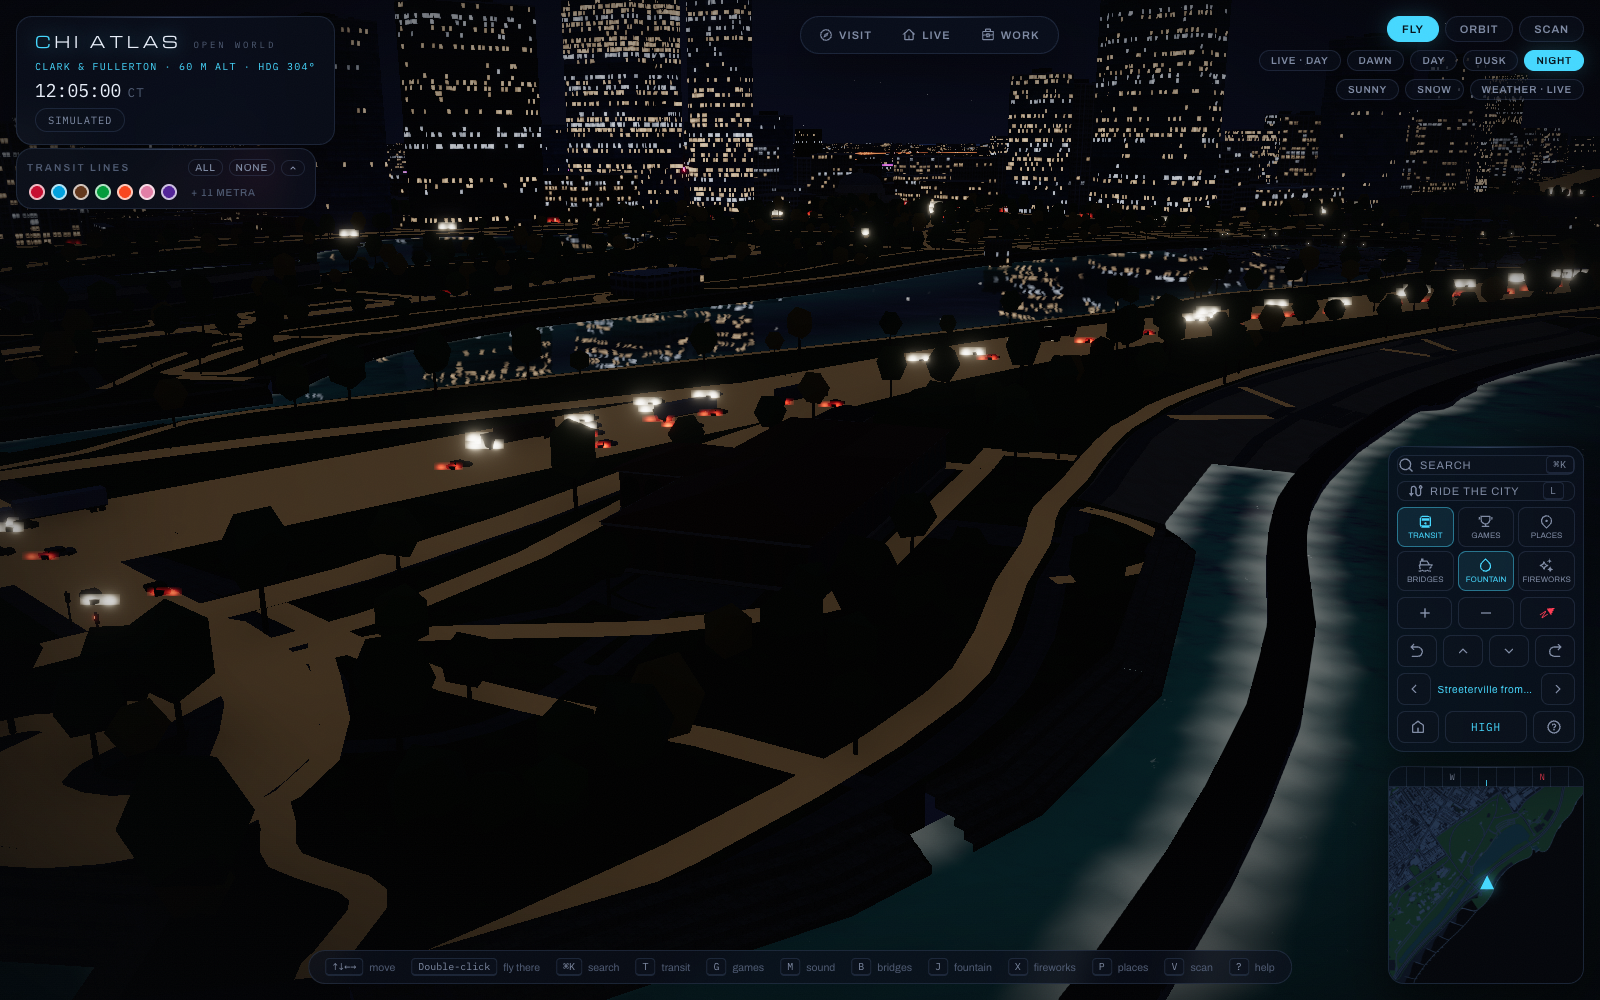
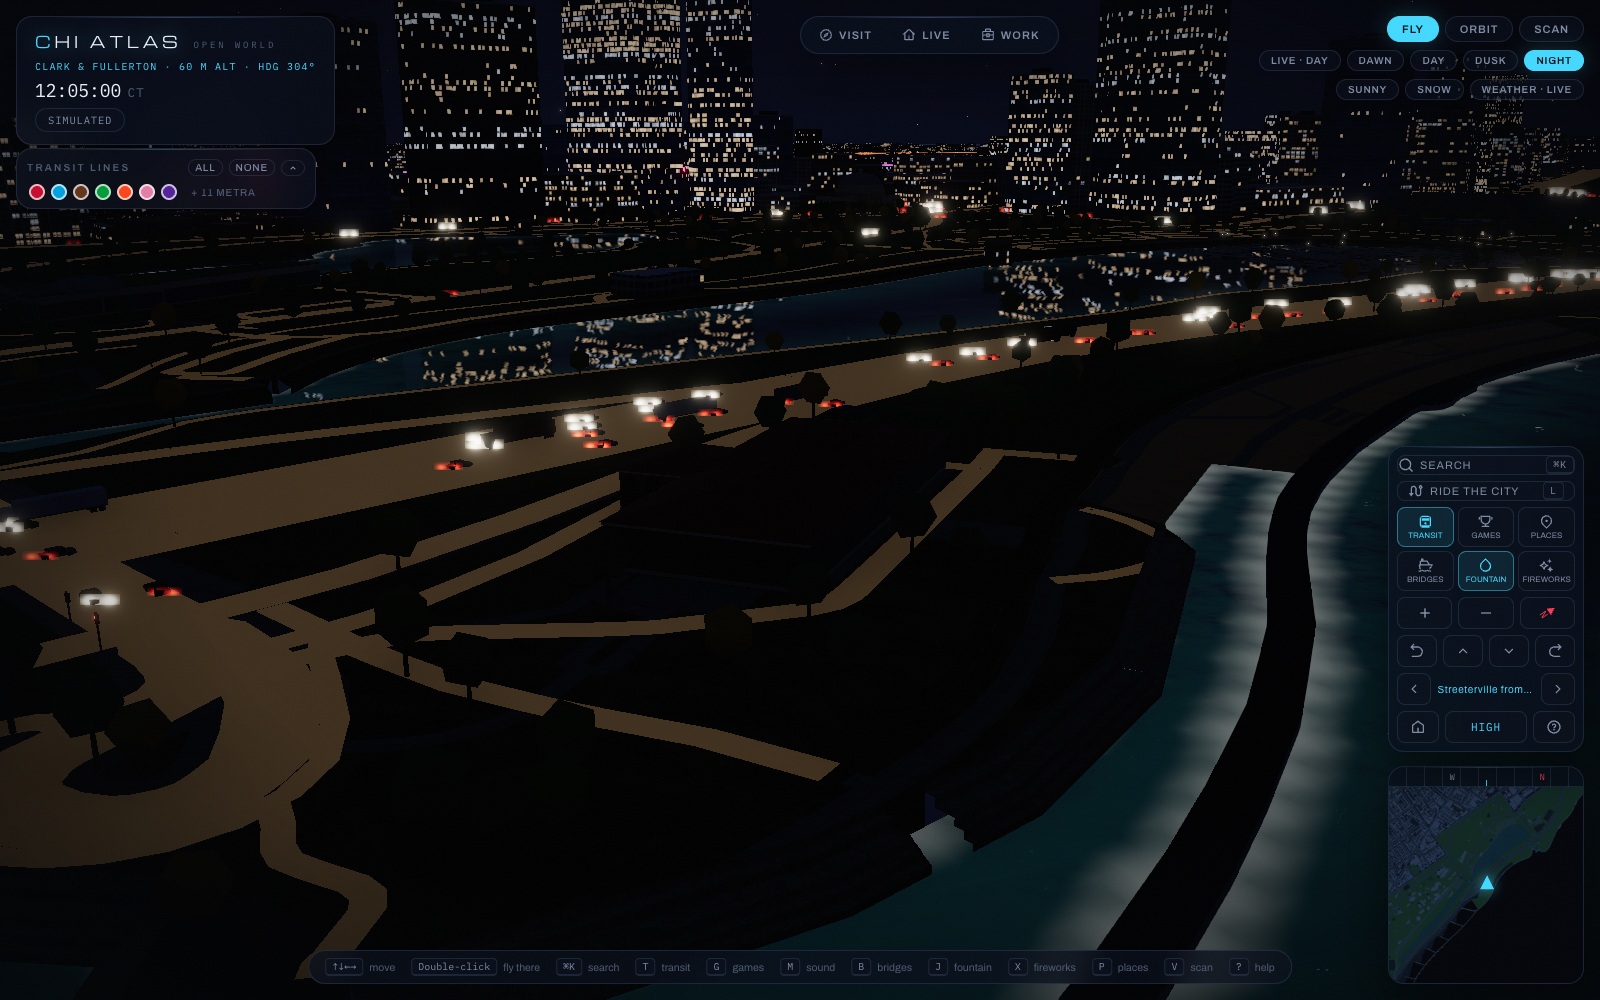
docs(readme): F-8 beach polish — North Avenue, Oak Street and the courts; the beach frames re-taken, the D5 ones to Evolution; nets' mesh lighter

diff --git a/app/src/world/BeachNets.jsx b/app/src/world/BeachNets.jsx
@@ -26,7 +26,7 @@ export default function BeachNets({ entry }) {
     if (!nets.length) return null
     const L = medianLength(nets), g = netGeometry(L)
     const solidMat = new THREE.MeshStandardMaterial({ vertexColors: true, roughness: 0.6, metalness: 0.2, side: THREE.DoubleSide })
-    const meshMat = new THREE.MeshStandardMaterial({ vertexColors: true, roughness: 1, metalness: 0, side: THREE.DoubleSide, transparent: true, opacity: 0.45, depthWrite: false })
+    const meshMat = new THREE.MeshStandardMaterial({ vertexColors: true, roughness: 1, metalness: 0, side: THREE.DoubleSide, transparent: true, opacity: 0.2, depthWrite: false })
     return { nets, L, meshes: [instanced(g.solid, solidMat, nets.length, true), instanced(g.solid, solidMat, nets.length, false), instanced(g.mesh, meshMat, nets.length, false)] }
   }, [entry])
   useEffect(() => () => {

diff --git a/README.md b/README.md
@@ -598,7 +598,7 @@ Every building, monument and landmark in Lincoln Park from North Avenue to Irvin
 <td width="50%"><img src="docs/screenshots/v10-lp-north-avenue-beach-night.png" alt="North Avenue Beach at night" width="100%"/></td>
 </tr>
 <tr>
-<td><em>The North Avenue Beach House as the ocean liner it was built to be, aground on the sand: portholes, the blue-railed decks, the Castaways canopy and two red-banded funnels. The beach runs from North Avenue to Fullerton between the lake and the Lakefront Trail, sloping down into the water.</em></td>
+<td><em>The North Avenue Beach House as the ocean liner it was built to be, aground on the sand: portholes, the blue-railed decks, the Castaways canopy and two red-banded funnels. The beach runs from North Avenue to Fullerton between the lake and the Lakefront Trail, sloping down into the water: warm tan sand, the walks across it narrow concrete, the lawns by the beach house kept green, and a net on every volleyball court.</em></td>
 <td><em>At night the portholes glow along the hull.</em></td>
 </tr>
 <tr>
@@ -820,8 +820,8 @@ Lake Michigan now lies where it really does: 4.65 m below the lakefront park and
 <td width="50%"><img src="docs/screenshots/d5-northave-beach-dusk.png" alt="D5 — North Avenue Beach at dusk" width="100%"/></td>
 </tr>
 <tr>
-<td><em>Ohio Street Beach: the sand runs into the water, and the stepped limestone revetment carries on along Lake Shore Drive.</em></td>
-<td><em>North Avenue Beach at dusk: the beach house on the sand, the beach sloping down to the lake.</em></td>
+<td><em>Ohio Street Beach: the tan sand runs into the water, and the stepped limestone revetment carries on along Lake Shore Drive.</em></td>
+<td><em>North Avenue Beach at dusk: the beach house on the sand, the volleyball nets, the beach sloping down to the lake.</em></td>
 </tr>
 <tr>
 <td width="50%"><img src="docs/screenshots/d5-belmont-harbor-dusk.png" alt="D5 — Belmont Harbor at dusk" width="100%"/></td>
@@ -854,6 +854,29 @@ Lake Michigan now lies where it really does: 4.65 m below the lakefront park and
 <tr>
 <td><em>The river mouth at dusk.</em></td>
 <td><em>Northerly Island at dusk, its shore down at the lake.</em></td>
+</tr>
+</table>
+
+### F-8 · Beach polish — *Chicago's tan sand, the walks across it, and the volleyball nets*
+
+The beaches now look like the real ones in photographs: the sand is the light tan of Chicago's lakefront beaches rather than a pale cream, and it holds that colour through day, dusk and night (and goes white under the SNOW view). The walks that cross the sand are drawn as narrow light-concrete paths instead of grey blacktop that read as streets, and the Lakefront Trail is drawn as what it is — a park trail of weathered blacktop with a dashed yellow centre line, no street-light glow, ploughed in snow — wherever it runs. North Avenue Beach's lawns, gardens and parking lot by the beach house are no longer buried under sand, and no tree stands on a beach. Every sand volleyball court has its net: two posts, the white top and bottom tapes and a see-through mesh — 112 nets, about 30 triangles each, drawn as instances only inside the view and within 650 m, casting shadows only within 140 m.
+
+<table>
+<tr>
+<td width="50%"><img src="docs/screenshots/f8-northave-beach-day.png" alt="F-8 — North Avenue Beach by day" width="100%"/></td>
+<td width="50%"><img src="docs/screenshots/f8-northave-beach-dusk.png" alt="F-8 — North Avenue Beach at dusk" width="100%"/></td>
+</tr>
+<tr>
+<td><em>North Avenue Beach by day: tan sand down to the water, the courts' nets in rows, the beach house beyond.</em></td>
+<td><em>The same beach at dusk, the sand warm in the low sun.</em></td>
+</tr>
+<tr>
+<td width="50%"><img src="docs/screenshots/f8-oak-beach-day.png" alt="F-8 — Oak Street Beach by day" width="100%"/></td>
+<td width="50%"><img src="docs/screenshots/f8-northave-courts-day.png" alt="F-8 — the volleyball courts at North Avenue Beach" width="100%"/></td>
+</tr>
+<tr>
+<td><em>Oak Street Beach from the lake: the curve of sand under the Gold Coast towers.</em></td>
+<td><em>Down at the courts: posts, tapes and see-through nets on the sand.</em></td>
 </tr>
 </table>
 
@@ -1275,24 +1298,28 @@ It wasn't made right in one attempt. Here are the same places through each pass,
 
 <table>
 <tr>
-<td width="33%"><img src="docs/screenshots/evolution/before-lp-north-avenue-beach-day.png" alt="North Avenue Beach before the Lincoln Park pass" width="100%"/></td>
-<td width="33%"><img src="docs/screenshots/evolution/v10-lp-north-avenue-beach-day-lp-pass.png" alt="North Avenue Beach after the Lincoln Park pass" width="100%"/></td>
-<td width="33%"><img src="docs/screenshots/v10-lp-north-avenue-beach-day.png" alt="North Avenue Beach with the lake at its real level" width="100%"/></td>
+<td width="25%"><img src="docs/screenshots/evolution/before-lp-north-avenue-beach-day.png" alt="North Avenue Beach before the Lincoln Park pass" width="100%"/></td>
+<td width="25%"><img src="docs/screenshots/evolution/v10-lp-north-avenue-beach-day-lp-pass.png" alt="North Avenue Beach after the Lincoln Park pass" width="100%"/></td>
+<td width="25%"><img src="docs/screenshots/evolution/v10-lp-north-avenue-beach-day-d5.png" alt="North Avenue Beach with the lake at its real level" width="100%"/></td>
+<td width="25%"><img src="docs/screenshots/v10-lp-north-avenue-beach-day.png" alt="North Avenue Beach after the beach polish" width="100%"/></td>
 </tr>
 <tr>
 <td><sub>North Avenue Beach · Oct 1, before (day)<br/>OSM boxes; the water under the grass</sub></td>
 <td><sub>North Avenue Beach · Oct 1, after (day)<br/>every building sculpted, the water shown</sub></td>
 <td><sub>North Avenue Beach · Oct 1, D5 (day)<br/>the sand slopes into the lake at its real level</sub></td>
+<td><sub>North Avenue Beach · Oct 2, F-8 (day)<br/>warm tan sand, concrete walks, volleyball nets</sub></td>
 </tr>
 <tr>
-<td width="33%"><img src="docs/screenshots/evolution/before-lp-north-avenue-beach-night.png" alt="North Avenue Beach before the Lincoln Park pass" width="100%"/></td>
-<td width="33%"><img src="docs/screenshots/evolution/v10-lp-north-avenue-beach-night-lp-pass.png" alt="North Avenue Beach after the Lincoln Park pass" width="100%"/></td>
-<td width="33%"><img src="docs/screenshots/v10-lp-north-avenue-beach-night.png" alt="North Avenue Beach with the lake at its real level" width="100%"/></td>
+<td width="25%"><img src="docs/screenshots/evolution/before-lp-north-avenue-beach-night.png" alt="North Avenue Beach before the Lincoln Park pass" width="100%"/></td>
+<td width="25%"><img src="docs/screenshots/evolution/v10-lp-north-avenue-beach-night-lp-pass.png" alt="North Avenue Beach after the Lincoln Park pass" width="100%"/></td>
+<td width="25%"><img src="docs/screenshots/evolution/v10-lp-north-avenue-beach-night-d5.png" alt="North Avenue Beach with the lake at its real level" width="100%"/></td>
+<td width="25%"><img src="docs/screenshots/v10-lp-north-avenue-beach-night.png" alt="North Avenue Beach after the beach polish" width="100%"/></td>
 </tr>
 <tr>
 <td><sub>North Avenue Beach · Oct 1, before (night)<br/>OSM boxes; the water under the grass</sub></td>
 <td><sub>North Avenue Beach · Oct 1, after (night)<br/>every building sculpted, the water shown</sub></td>
 <td><sub>North Avenue Beach · Oct 1, D5 (night)<br/>the sand slopes into the lake at its real level</sub></td>
+<td><sub>North Avenue Beach · Oct 2, F-8 (night)<br/>warm tan sand, concrete walks, volleyball nets</sub></td>
 </tr>
 <tr>
 <td width="50%"><img src="docs/screenshots/evolution/before-lp-zoo-mall-day.png" alt="The zoo before the Lincoln Park pass" width="100%"/></td>
@@ -1347,24 +1374,28 @@ It wasn't made right in one attempt. Here are the same places through each pass,
 <td><sub>The Conservatory · Oct 1, after (night)<br/>every building sculpted, the water shown</sub></td>
 </tr>
 <tr>
-<td width="33%"><img src="docs/screenshots/evolution/before-lp-theater-on-the-lake-day.png" alt="Fullerton before the Lincoln Park pass" width="100%"/></td>
-<td width="33%"><img src="docs/screenshots/evolution/v10-lp-theater-on-the-lake-day-lp-pass.png" alt="Fullerton after the Lincoln Park pass" width="100%"/></td>
-<td width="33%"><img src="docs/screenshots/v10-lp-theater-on-the-lake-day.png" alt="Fullerton with the lake at its real level" width="100%"/></td>
+<td width="25%"><img src="docs/screenshots/evolution/before-lp-theater-on-the-lake-day.png" alt="Fullerton before the Lincoln Park pass" width="100%"/></td>
+<td width="25%"><img src="docs/screenshots/evolution/v10-lp-theater-on-the-lake-day-lp-pass.png" alt="Fullerton after the Lincoln Park pass" width="100%"/></td>
+<td width="25%"><img src="docs/screenshots/evolution/v10-lp-theater-on-the-lake-day-d5.png" alt="Fullerton with the lake at its real level" width="100%"/></td>
+<td width="25%"><img src="docs/screenshots/v10-lp-theater-on-the-lake-day.png" alt="Fullerton after the beach polish" width="100%"/></td>
 </tr>
 <tr>
 <td><sub>Fullerton · Oct 1, before (day)<br/>OSM boxes; the water under the grass</sub></td>
 <td><sub>Fullerton · Oct 1, after (day)<br/>every building sculpted, the water shown</sub></td>
 <td><sub>Fullerton · Oct 1, D5 (day)<br/>the stepped limestone revetment down to the lake</sub></td>
+<td><sub>Fullerton · Oct 2, F-8 (day)<br/>Fullerton Beach in warm tan sand</sub></td>
 </tr>
 <tr>
-<td width="33%"><img src="docs/screenshots/evolution/before-lp-theater-on-the-lake-night.png" alt="Fullerton before the Lincoln Park pass" width="100%"/></td>
-<td width="33%"><img src="docs/screenshots/evolution/v10-lp-theater-on-the-lake-night-lp-pass.png" alt="Fullerton after the Lincoln Park pass" width="100%"/></td>
-<td width="33%"><img src="docs/screenshots/v10-lp-theater-on-the-lake-night.png" alt="Fullerton with the lake at its real level" width="100%"/></td>
+<td width="25%"><img src="docs/screenshots/evolution/before-lp-theater-on-the-lake-night.png" alt="Fullerton before the Lincoln Park pass" width="100%"/></td>
+<td width="25%"><img src="docs/screenshots/evolution/v10-lp-theater-on-the-lake-night-lp-pass.png" alt="Fullerton after the Lincoln Park pass" width="100%"/></td>
+<td width="25%"><img src="docs/screenshots/evolution/v10-lp-theater-on-the-lake-night-d5.png" alt="Fullerton with the lake at its real level" width="100%"/></td>
+<td width="25%"><img src="docs/screenshots/v10-lp-theater-on-the-lake-night.png" alt="Fullerton after the beach polish" width="100%"/></td>
 </tr>
 <tr>
 <td><sub>Fullerton · Oct 1, before (night)<br/>OSM boxes; the water under the grass</sub></td>
 <td><sub>Fullerton · Oct 1, after (night)<br/>every building sculpted, the water shown</sub></td>
 <td><sub>Fullerton · Oct 1, D5 (night)<br/>the stepped limestone revetment down to the lake</sub></td>
+<td><sub>Fullerton · Oct 2, F-8 (night)<br/>Fullerton Beach in warm tan sand</sub></td>
 </tr>
 <tr>
 <td width="33%"><img src="docs/screenshots/evolution/before-lp-belmont-waveland-day.png" alt="Diversey to Waveland before the Lincoln Park pass" width="100%"/></td>
@@ -1393,6 +1424,27 @@ It wasn't made right in one attempt. Here are the same places through each pass,
 <tr>
 <td><sub>The Lily Pool · Sep 30<br/>the Nature Museum a plain box</sub></td>
 <td><sub>The Lily Pool · Oct 1, the same view<br/>the Nature Museum and its Butterfly Haven, North Pond as water</sub></td>
+</tr>
+</table>
+
+**The lakefront beaches** — the D5 frames, before and after the beach polish (F-8)
+
+<table>
+<tr>
+<td width="50%"><img src="docs/screenshots/evolution/d5-ohio-beach-day-d5.png" alt="Ohio Street Beach at D5" width="100%"/></td>
+<td width="50%"><img src="docs/screenshots/d5-ohio-beach-day.png" alt="Ohio Street Beach after the beach polish" width="100%"/></td>
+</tr>
+<tr>
+<td><sub>Ohio Street Beach · Oct 1, D5 (day)<br/>pale, almost white sand</sub></td>
+<td><sub>Ohio Street Beach · Oct 2, F-8 (day)<br/>warm tan sand</sub></td>
+</tr>
+<tr>
+<td width="50%"><img src="docs/screenshots/evolution/d5-northave-beach-dusk-d5.png" alt="North Avenue Beach at dusk at D5" width="100%"/></td>
+<td width="50%"><img src="docs/screenshots/d5-northave-beach-dusk.png" alt="North Avenue Beach at dusk after the beach polish" width="100%"/></td>
+</tr>
+<tr>
+<td><sub>North Avenue Beach · Oct 1, D5 (dusk)<br/>grey trail spurs across the sand like roads</sub></td>
+<td><sub>North Avenue Beach · Oct 2, F-8 (dusk)<br/>tan sand, the volleyball nets</sub></td>
 </tr>
 </table>
 
